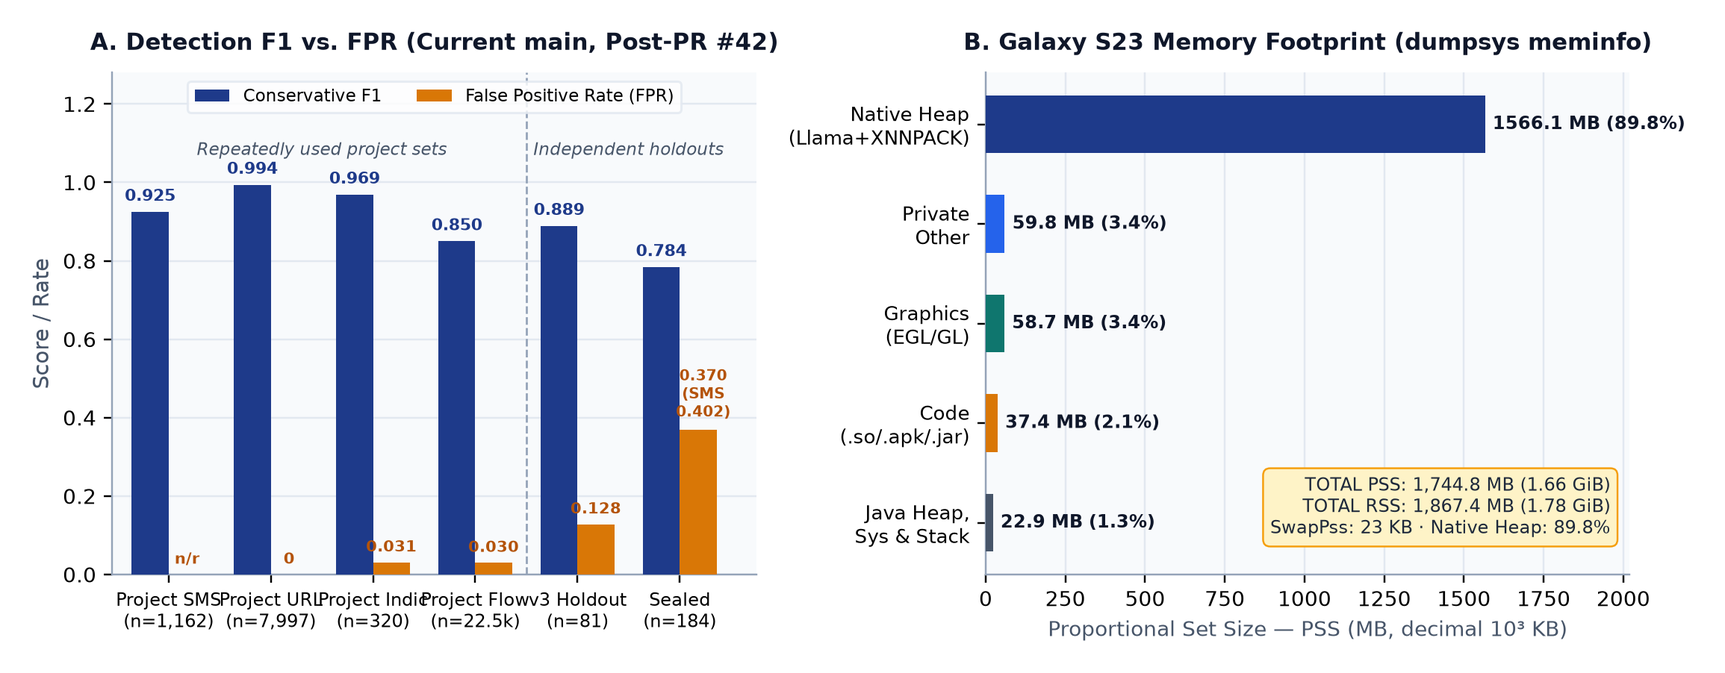
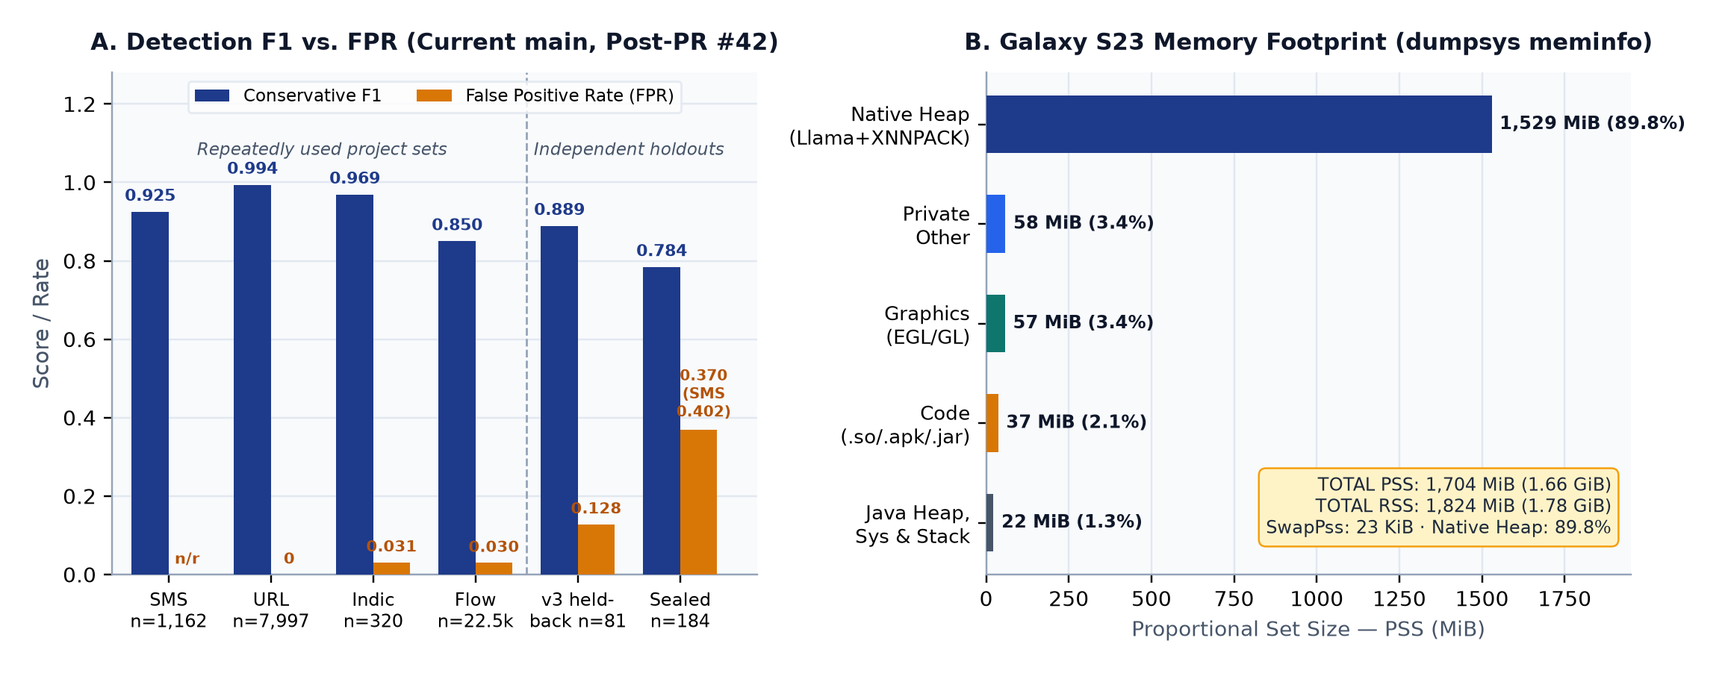
docs(phase1): fix review findings (GPT-6.1 Terra r1)
- dumpsys KB are KiB: S23 PSS/RSS now 1.66/1.78 GiB (1,704/1,824 MiB); chart in MiB
- memory sequence: report first, peak and final app values; no stability claim
- methodology matches llm.py: up to two refusal retries; prompt carries <=320 input chars
- V2 vs N1 speed ratio stated as descriptive; cause not attributed (no KleidiAI A/B)
- deadline: cite the owner's form notes and the older page date
- README: list report build prerequisites
- chart x-labels no longer overlap

diff --git a/docs/phase1/build_report.py b/docs/phase1/build_report.py
@@ -181,12 +181,12 @@ def build_eval_and_mem_chart() -> Path:
     # Panel A: F1 & FPR across project sets, v3 held-back, and sealed holdout
     _style_ax(ax1)
     labels = [
-        "Project SMS\n(n=1,162)",
-        "Project URL\n(n=7,997)",
-        "Project Indic\n(n=320)",
-        "Project Flow\n(n=22.5k)",
-        "v3 Holdout\n(n=81)",
-        "Sealed\n(n=184)",
+        "SMS\nn=1,162",
+        "URL\nn=7,997",
+        "Indic\nn=320",
+        "Flow\nn=22.5k",
+        "v3 held-\nback n=81",
+        "Sealed\nn=184",
     ]
     f1_vals = [0.925, 0.994, 0.969, 0.850, 0.889, 0.784]
     # Post-PR #42 SMS dev-set FPR was not recorded, so it is plotted as "n/r" rather than guessed.
@@ -224,7 +224,9 @@ def build_eval_and_mem_chart() -> Path:
     # Panel B: Galaxy S23 dumpsys meminfo PSS breakdown (KB -> MB)
     _style_ax(ax2)
     cats = ["Native Heap\n(Llama+XNNPACK)", "Private\nOther", "Graphics\n(EGL/GL)", "Code\n(.so/.apk/.jar)", "Java Heap,\nSys & Stack"]
-    mb = [1566.1, 59.8, 58.7, 37.4, 22.9]  # sums to 1,744.8 MB (1,744,842 KB PSS)
+    # dumpsys reports KiB; convert to MiB so the figure matches the GiB totals.
+    kib = [1566056, 59764, 58676, 37420, 11044 + 10566 + 1316]  # App Summary rows, sum 1,744,842 KiB
+    mb = [v / 1024 for v in kib]
     cols = [INDIGO, BLUE, TEAL, AMBER, SLATE]
     y = np.arange(len(cats))[::-1]
     ax2.grid(axis="x", color=GRID, linewidth=0.8, zorder=0)
@@ -232,17 +234,17 @@ def build_eval_and_mem_chart() -> Path:
     bars = ax2.barh(y, mb, height=0.58, color=cols, zorder=3)
     ax2.set_yticks(y)
     ax2.set_yticklabels(cats, fontsize=8.6)
-    ax2.set_xlim(0, 2020)
-    ax2.set_xlabel("Proportional Set Size — PSS (MB, decimal 10³ KB)", fontsize=9.2, color=SLATE)
+    ax2.set_xlim(0, 1950)
+    ax2.set_xlabel("Proportional Set Size — PSS (MiB)", fontsize=9.2, color=SLATE)
     ax2.tick_params(axis="x", labelsize=9)
     for b, v in zip(bars, mb):
-        pct = 100.0 * v / 1744.842
-        ax2.text(v + 24, b.get_y() + b.get_height() / 2, f"{v:.1f} MB ({pct:.1f}%)", va="center", ha="left", fontsize=8.0, color="#0F172A", fontweight="bold")
+        pct = 100.0 * v / (1744842 / 1024)
+        ax2.text(v + 24, b.get_y() + b.get_height() / 2, f"{v:,.0f} MiB ({pct:.1f}%)", va="center", ha="left", fontsize=8.0, color="#0F172A", fontweight="bold")
     ax2.set_title("B. Galaxy S23 Memory Footprint (dumpsys meminfo)", fontsize=10.0, fontweight="bold", color="#0F172A", pad=10)
     ax2.text(
         0.97,
         0.07,
-        "TOTAL PSS: 1,744.8 MB (1.66 GiB)\nTOTAL RSS: 1,867.4 MB (1.78 GiB)\nSwapPss: 23 KB · Native Heap: 89.8%",
+        "TOTAL PSS: 1,704 MiB (1.66 GiB)\nTOTAL RSS: 1,824 MiB (1.78 GiB)\nSwapPss: 23 KiB · Native Heap: 89.8%",
         transform=ax2.transAxes,
         ha="right",
         va="bottom",

diff --git a/docs/phase1/report.md b/docs/phase1/report.md
@@ -11,7 +11,7 @@ Prahari is an offline, on-device cybersecurity triage assistant built for Indian
 
 | Dimension | Verified Phase 1 Measurement (Current `main`, 23 Nov 2026) | Evidence & Qualification |
 |:--|:--|:--|
-| **Physical Arm Smartphone** | **Samsung Galaxy S23 (`SM-S911B`, Snapdragon 8 Gen 2, `arm64-v8a`)**: warm TTFT **510 ms** (499–510 ms), decode **43.4 tok/s**, total **1.20 s/check** (**1.42 s** in Airplane Mode `airplane_mode_on=1`), **1,745 MB PSS** / 1,867 MB RSS | Real handset via Samsung Remote Test Lab (r1 APK; PR #43 r2 UI verified on Android 14 emulator, awaiting S23 re-test) [S9, S11] |
+| **Physical Arm Smartphone** | **Samsung Galaxy S23 (`SM-S911B`, Snapdragon 8 Gen 2, `arm64-v8a`)**: warm TTFT **510 ms** (499–510 ms), decode **43.4 tok/s**, total **1.20 s/check** (**1.42 s** in Airplane Mode `airplane_mode_on=1`), **1.66 GiB PSS** / 1.78 GiB RSS (`dumpsys`) | Real handset via Samsung Remote Test Lab (r1 APK; PR #43 r2 UI verified on Android 14 emulator, awaiting S23 re-test) [S9, S11] |
 | **Arm Linux & KleidiAI** | **Arm Neoverse-V2 (8 vCPU)**: **54.17%** of sampled CPU time inside **Arm KleidiAI** `kai_*` kernels (`perf`: 23.27% `i8mm` prefill, 20.57% `dotprod` decode); **1.73 s/item** at 2T (46.7 tok/s), **0.98 s/item** at 8T (**104.6 tok/s**) | `perf record -F 99 -g` (2,222 samples, 0 lost); `unshare -n` OS network-cut proof passed 6/6 [S10] |
 | **Offline Privacy** | Android app declares **no `INTERNET` permission** (`SecurityException` in 12 ms on S23) + ran in **Airplane Mode**; Linux verified under `unshare -n` (`lo` down; HTTPS/DNS/TCP fail, inference passes) | Model download/staging is one-time before offline use; external dialler/browser open separate apps [S9, S10] |
 | **Detection (Holdouts)** | **Independent India v3 held-back (`n = 81`)**: F1 **0.761 -> 0.889**, recall **0.941**, FPR **0.128**. **Sealed final holdout (`n = 184`)**: combined F1 **0.784**, recall **0.929**, combined FPR **0.37**, **SMS FPR 0.402** | Both holdouts reported transparently; placeholder `.example` links and benign advisories drive sealed FPR (active fix branch) [S8, S11] |
@@ -100,10 +100,10 @@ All headline detection numbers use **conservative metrics** where `uncertain` co
 
 Prahari targets interactive on-device response (`~1–2 s`) and bounded memory on CPU-only Arm SoCs through five concrete engineering choices:
 
-1. **Detector-first cascade (keeping Llama off the classification hot path):** Classical classifiers and mechanism rules execute in **0.42 ms/item** on Arm Linux and **5–17 ms** warm for text checks on Galaxy S23 (183 ms for the lookalike-URL check, 255 ms for the cold first check) [S2, S9]. Llama 3.2 1B runs **only once per item** to verbalise already-verified evidence, eliminating multi-turn LLM prompting and guaranteeing deterministic verdicts even if generation is skipped or fails.
+1. **Detector-first cascade (keeping Llama off the classification hot path):** Classical classifiers and mechanism rules execute in **0.42 ms/item** on Arm Linux and **5–17 ms** warm for text checks on Galaxy S23 (183 ms for the lookalike-URL check, 255 ms for the cold first check) [S2, S9]. Llama 3.2 1B runs once per item to verbalise already-verified evidence (up to two extra generations only if the output is a refusal: a stricter retry prompt, then an evidence-only prompt), and the verdict stays the detector's even if generation is skipped or fails.
 2. **Low-bit weight quantization & model selection (QLoRA INT4 vs. SpinQuant):** Prahari deploys the official ExecuTorch community **Llama 3.2 1B Instruct QLoRA INT4** export (`group-32` symmetric INT4 weights, 8-bit dynamic per-channel activations, ~1.18 GB `.pte` file, SHA-256 `ab7b7ebf…`). On the Oracle Neoverse-N1 baseline, `llama32-1b-qlora` delivered **~83.1 tok/s prefill / 19.9 tok/s decode** compared against `llama32-1b-spinquant` at **~58–63 tok/s prefill / 12–13.5 tok/s decode** under mixed host load, so QLoRA INT4 was retained [S2, S4].
 3. **Arm KleidiAI int8/int4 micro-kernel execution via ExecuTorch XNNPACK:** On Armv8.2+/Armv9 CPUs supporting `asimddp` and `i8mm` (present on both the Snapdragon 8 Gen 2 S23 and Arm Neoverse-V2), ExecuTorch's XNNPACK backend dispatches quantized matrix multiplications directly to **Arm KleidiAI** kernels. Whole-process `perf` profiling on Neoverse-V2 confirmed **54.17%** of all sampled CPU time ran inside named `kai_*` kernels: **23.27%** in `i8mm` prefill matmul (`qai8dxp4x8_qsi4c32p4x8 ... _neon_i8mm`) and **20.57%** in `dotprod` token-decode matmul (`qai8dxp1x8_qsi4c32p4x8 ... _neon_dotprod`), with full symbol names recorded in Section 5.1.2 and `EVIDENCE.md` [S10]. Because no supported runtime switch was found to disable KleidiAI in the installed binary, dispatch is proven without claiming an unmeasured on/off speedup ratio.
-4. **Compact evidence-first prompt and bounded greedy decoding:** Each prompt passes only the compressed evidence phrase and verdict directive (109–128 prompt tokens, median 123, on the six demo items; median 133–139 on the 28-item Oracle suite), with greedy decoding (`temperature = 0`) and a **40-token cap** on Linux (25–39 generated tokens, median 28, on the demo items). Keeping prompts and outputs short cuts both prefill compute and KV-cache traffic without changing model weights. *(Known Android limitation: ExecuTorch Android 1.5.1/1.6 `generate` overload does not forward `maxNewTokens`, so the Android bridge stops the runner after 40 token callbacks [S7].)*
+4. **Compact evidence-first prompt and bounded greedy decoding:** Each prompt passes the verdict directive, a compressed evidence phrase and at most 320 characters of the input with live links defanged (109–128 prompt tokens, median 123, on the six demo items; median 133–139 on the 28-item Oracle suite), with greedy decoding (`temperature = 0`) and a **40-token cap** on Linux (25–39 generated tokens, median 28, on the demo items). Keeping prompts and outputs short cuts both prefill compute and KV-cache traffic without changing model weights. *(Known Android limitation: ExecuTorch Android 1.5.1/1.6 `generate` overload does not forward `maxNewTokens`, so the Android bridge stops the runner after 40 token callbacks [S7].)*
 5. **Portable zero-scikit-learn detector export for Android (`android/tools/export_models.py`):** Chaquopy's Android wheel index tops out at scikit-learn 1.3.2 on Python 3.10 whereas training uses scikit-learn 1.9.1 on Python 3.12. Rather than shipping incompatible pickles or bloating the APK, CI exports all four trained models into compact pure-JSON/NumPy parameters (`portable.py`) and runs parity tests against reference probabilities and labels on every build — eliminating cross-version unpickling and keeping warm Android detector latency at **5–17 ms** for text checks [S7, S9].
 
 ## Hardware Utilization and On-Device Performance
@@ -127,7 +127,7 @@ Tested on 23 November 2026 via Samsung Remote Test Lab (Noida) using the CI `arm
 | Port scan description | DANGEROUS | 5 ms | 650 ms | 38.6 tok/s | 1.49 s | 1,772.6 MB |
 | **KYC scam SMS in Airplane Mode (`airplane_mode_on=1`)** | **DANGEROUS** | **8 ms** | **657 ms** | **39.0 tok/s** | **1.42 s** | **1,772.6 MB** |
 
-**Memory utilization (`adb shell dumpsys meminfo in.prahari.app` after KYC):** **TOTAL PSS 1,744,842 KB (~1.66 GiB / 1.74 GB)**, **TOTAL RSS 1,867,396 KB (~1.78 GiB / 1.87 GB)**, SwapPss 23 KB. Native Heap (ExecuTorch weights + XNNPACK workspace + KV cache) accounts for **1,566,097 KB (89.8% of total PSS)**; Graphics 58,676 KB, Private Other 59,764 KB, Code 37,420 KB, Java Heap 11,044 KB. Across 8 consecutive checks, app-displayed memory rose from 1,692.4 MB to 1,781.2 MB (+88.8 MB), confirming stability on an 8 GB phone while highlighting tight RAM headroom for 4–6 GB devices [S9].
+**Memory utilization (`adb shell dumpsys meminfo in.prahari.app` after KYC):** **TOTAL PSS 1,744,842 KiB (1,704 MiB, 1.66 GiB)**, **TOTAL RSS 1,867,396 KiB (1,824 MiB, 1.78 GiB)**, SwapPss 23 KiB (`dumpsys` reports kilobytes of 1,024 bytes). Native Heap (ExecuTorch weights + XNNPACK workspace + KV cache) accounts for **1,566,097 KiB (1,529 MiB, 89.8% of total PSS)**; Graphics 58,676 KiB, Private Other 59,764 KiB, Code 37,420 KiB, Java Heap 11,044 KiB. App-displayed memory (the app's own MB figure) was 1,692.4 MB after the first check, peaked at 1,781.2 MB after the lookalike-URL check and read 1,772.6 MB after the last check; the warm-2 value was not captured. Eight checks in one session are too few to show long-run stability, and the footprint leaves little headroom on 4–6 GB phones [S9].
 
 ![Physical Galaxy S23 in Airplane Mode (KYC verdict & steps)](img/s23-kyc-airplane-top.png){width=23.5%} ![Physical Galaxy S23 warm arm64-v8a stats (43.4 t/s, 1.20 s)](img/s23-kyc-warm1-stats.png){width=23.5%} ![Physical Galaxy S23 Airplane Mode Llama & stats (1.42 s)](img/s23-kyc-airplane-stats.png){width=23.5%} ![Physical Galaxy S23 OS SecurityException offline proof](img/s23-prove-offline.png){width=23.5%}
 
@@ -144,7 +144,7 @@ Measured on 23 November 2026 on Debian 12 (Linux 6.1.155, `aarch64`, ARM Neovers
 | 4 | 907.7 ± 373.0 | 75.89 ± 0.43 | 378.79 ± 2.70 | 1.470 ± 0.377 | 2.098 ± 0.378 |
 | 8 | **526.8 ± 15.0** | **104.58 ± 1.15** | **676.80 ± 2.29** | **0.980 ± 0.015** | **1.606 ± 0.020** |
 
-At 2 threads, Neoverse-V2 achieved **2.57× prefill** (210.58 vs. ~82 tok/s) and **2.33× decode** (46.69 vs. ~20 tok/s) over our 2-vCPU Oracle Neoverse-N1 baseline, reflecting `i8mm` + KleidiAI execution and higher memory bandwidth. Scaling from 1 to 8 threads increased decode speed **4.07×** (25.7 -> 104.6 tok/s) and prefill **6.19×** (109.3 -> 676.8 tok/s), bringing warm per-item turnaround below 1 second (`0.980 s`). Runner RSS on Neoverse-V2 was **2,373.8 MiB** after model load (2.012 s load time) and **2,392.1 MiB** after generation [S10].
+At 2 threads, Neoverse-V2 achieved **2.57× prefill** (210.58 vs. ~82 tok/s) and **2.33× decode** (46.69 vs. ~20 tok/s) over our 2-vCPU Oracle Neoverse-N1 baseline, measured on different machines with different run conditions, so the ratio is descriptive; no KleidiAI on/off A/B was run, and the share of the gap due to `i8mm`/KleidiAI versus core design and memory bandwidth is not isolated. Scaling from 1 to 8 threads increased decode speed **4.07×** (25.7 -> 104.6 tok/s) and prefill **6.19×** (109.3 -> 676.8 tok/s), bringing warm per-item turnaround below 1 second (`0.980 s`). Runner RSS on Neoverse-V2 was **2,373.8 MiB** after model load (2.012 s load time) and **2,392.1 MiB** after generation [S10].
 
 - **KleidiAI CPU utilization (`perf record -F 99 -g`, 2 threads, ~2,222 samples, 0 lost):** Named `kai_*` leaf functions consumed **54.17%** of total whole-process CPU samples (including Python startup and model loading): **23.27%** in `kai_kernel_matmul_clamp_f32_qai8dxp4x8_qsi4c32p4x8_16x4x32_opt32_neon_i8mm` (prefill), **20.57%** in `kai_kernel_matmul_clamp_f32_qai8dxp1x8_qsi4c32p4x8_1x4x32_neon_dotprod` (decode), and **10.33%** in remaining `kai_*` packing/helper kernels [S10].
 - **OS-level offline proof (`unshare -n`):** In an isolated network namespace with only `lo` (`DOWN`), `curl https://example.com` exited 6, DNS for `huggingface.co` exited 2, and raw TCP to `1.1.1.1:443` raised `OSError: [Errno 101] Network is unreachable`. Inside that same namespace, `bin/explain` exited 0 and generated all 6/6 verdicts and explanations [S10].
@@ -191,7 +191,7 @@ The sealed holdout (84 malicious, 100 benign: 155 SMS-route [68 malicious, 87 be
 
 ![Honest evaluation summary across benchmarks and Galaxy S23 dumpsys memory breakdown](img/fig-eval-summary.png){width=98%}
 
-*Figure 3 — Left: Conservative F1 vs. FPR across repeatedly used project sets and both independent holdouts on current `main` (post-PR #42). Right: Physical Samsung Galaxy S23 `dumpsys meminfo` Proportional Set Size (PSS) breakdown showing Native Heap (Llama 3.2 1B + ExecuTorch XNNPACK) at 89.8% of 1,745 MB total PSS.*
+*Figure 3 — Left: Conservative F1 vs. FPR across repeatedly used project sets and both independent holdouts on current `main` (post-PR #42). Right: Physical Samsung Galaxy S23 `dumpsys meminfo` Proportional Set Size (PSS) breakdown showing Native Heap (Llama 3.2 1B + ExecuTorch XNNPACK) at 89.8% of 1.66 GiB total PSS.*
 
 ### Explanation Quality, Safety Audits, and Live Monitor Verification
 
@@ -212,7 +212,7 @@ The sealed holdout (84 malicious, 100 benign: 155 SMS-route [68 malicious, 87 be
 
 1. **False alarms on hard benign notices:** Sealed-holdout SMS FPR is **0.402** (combined 0.370) and adversarial harmless FPR is 5/13. Until genuine bank/advisory FPR falls below 10–15% on unseen data, automatic background SMS interception (`READ_SMS` / `NotificationListenerService`) remains intentionally disabled.
 2. **APK version split on Galaxy S23:** Physical S23 timing and airplane-mode proofs ran the r1 APK (where bank-debit sentence repetition and a stray URL question occurred). Both defects were fixed in PR #41 and the full r2 UX (Share sheet, `EN / Hindi` toggle, offline TTS, evidence quotes, opt-in history, QR check) merged in PR #43, but the unified r2 APK still needs its physical S23 verification run before recording the final demo video.
-3. **Memory footprint on mid-range phones:** Galaxy S23 measured **1.74 GB PSS / 1.87 GB RSS** with +89 MB growth across 8 checks (`1,692 -> 1,781 MB`), leaving tight headroom on 4–6 GB Android phones.
+3. **Memory footprint on mid-range phones:** Galaxy S23 measured **1.66 GiB PSS / 1.78 GiB RSS** (`dumpsys`); app-displayed memory went from 1,692 MB after the first check to a 1,781 MB peak over 8 checks (1,773 MB at the end), leaving tight headroom on 4–6 GB Android phones. Longer runs are untested.
 4. **Missed hybrid scams & explanation limits:** 2/24 reviewer adversarial scams still bypass rules (typically mixing an official app mention with a secondary WhatsApp/unofficial link). Post-PR #41 explanations have not yet been manually re-audited, and Llama prose remains English-only (with a Hindi UI warning).
 5. **Network scope:** `bin/monitor` is Linux-only (Android 10+ blocks `/proc/net`), samples sockets at 0.5 s intervals rather than capturing raw packets, and is separate from the NSL-KDD feature-replay classifier; `bin/explain` reclassifies flow text with rules rather than explaining the NSL-KDD tree.
 

diff --git a/docs/phase1/LIMITATIONS.md b/docs/phase1/LIMITATIONS.md
@@ -8,7 +8,7 @@
 6. **How does the NSL-KDD flow model relate to `bin/monitor` and `bin/explain`?** They are separate paths. `bin/predict --task flow` runs a trained HistGradientBoosting model + 3 signatures over NSL-KDD's 41 named features as dataset replay (F1 0.850, FPR 3.03% on `KDDTest+`). `bin/monitor`, the web UI, and `bin/explain` classify plain-text network descriptions using flow text rules, so the two paths can disagree and `bin/explain` does not explain the tree model's verdict.
 7. **Why do the two holdout F1/FPR numbers differ (0.889 vs. 0.784)?** On the independent India v3 held-back split (`n = 81`, unseen during PR #42 tuning), conservative F1 improved **0.761 -> 0.889** and FPR dropped **0.213 -> 0.128**. On the older Gemini-authored sealed final holdout (`n = 184`, now scored multiple times), current `main` achieves **0.929 recall** but **0.784 combined F1** and **0.402 SMS-route FPR** (35/87 benign SMS flagged; combined FPR 0.370). That holdout substitutes real domains with placeholder `.example` URLs (about 12 of `gen51`'s 31 false positives contained one, tripping throwaway-TLD rules) and includes hard benign safety advisories quoting scam language. Cutting genuine-notice false alarms without sacrificing recall is our top active priority before final freeze.
 8. **Does Prahari routinely flag legitimate bank or OTP SMS?** Genuine-looking bank debit and OTP alerts without an unofficial contact are surfaced as **SUSPICIOUS (bank alert to confirm)** rather than `DANGEROUS`, guiding the user to verify directly in their bank app. However, until the sealed-holdout false-positive rate is reduced further, routine false alarms on edge-case notices remain a known weakness — which is why background `READ_SMS` interception is intentionally off.
-9. **How fast and memory-heavy is it on a real phone?** On Galaxy S23 (8 GB RAM), warm text checks take **1.20–1.50 s** (1.42 s in Airplane Mode; the lookalike-URL check took 3.53 s), but `dumpsys meminfo` recorded **1,745 MB PSS / 1,867 MB RSS** (89.8% Native Heap), drifting +89 MB across 8 checks (`1,692 -> 1,781 MB`). Shrinking KV-cache context length and freeing per-check native buffers is needed for comfortable headroom on 4–6 GB phones.
+9. **How fast and memory-heavy is it on a real phone?** On Galaxy S23 (8 GB RAM), warm text checks take **1.20–1.50 s** (1.42 s in Airplane Mode; the lookalike-URL check took 3.53 s), but `dumpsys meminfo` recorded **1.66 GiB PSS / 1.78 GiB RSS** (89.8% Native Heap). App-displayed memory went from 1,692 MB to a 1,781 MB peak across 8 checks (1,773 MB at the end); longer sessions are untested. Shrinking KV-cache context length and freeing per-check native buffers is needed for comfortable headroom on 4–6 GB phones.
 10. **What does Arm KleidiAI actually contribute?** Whole-process `perf record -F 99 -g` profiling on Arm Neoverse-V2 (2 threads, 2,222 samples, 0 lost) proved **54.17% of sampled CPU time** executes directly inside named `kai_*` kernels (`23.27%` `i8mm` prefill matmul + `20.57%` `dotprod` decode matmul + `10.33%` packing/helpers) invoked through ExecuTorch's XNNPACK delegate. No runtime KleidiAI disable flag was found in the installed ExecuTorch build, so dispatch is proven without claiming an unmeasured on/off speedup ratio.
 11. **Are Llama explanations always reliable?** No. An initial blind audit of 20 sealed-holdout explanations found 5 correct, 8 weak, and 7 wrong (4 false input claims). PR #41 fixed repeated openings, false absence assertions on `NO RISK` items, and stray generated questions (lifting automated consistency v2 from 0.929 to 0.964 and explanation score from 0.929 to 0.932), and vetted static steps are always displayed first — but post-PR #41 outputs still await a fresh blind manual re-audit, and Llama prose remains English-only.
 12. **Can a prompt injection or subtle scam bypass the assistant?** Prompt-injection rules, data-framing prompts, and detector-authoritative verdicts mitigate override attempts (injection holdout FPR 0.154, recall 0.938), but they are heuristic guards, not formal proofs. In our 24-scam adversarial suite, 2 scams still slip through (typically mixing an official app reference with an unofficial WhatsApp/link). `NO RISK FOUND` always adds *"still verify."*

diff --git a/docs/phase1/demo-video.md b/docs/phase1/demo-video.md
@@ -76,7 +76,7 @@ candidates/BEST/bin/monitor --seconds 6
 | **0:28–1:00** | 32 s | **Live KYC Scam SMS on Galaxy S23 (Airplane Mode `✈` still visible).** Tap **KYC scam SMS** sample → tap **Check**. Show **real-time** ~1.2–1.4 s completion (no cut!). Result appears: red **`DANGEROUS / खतरनाक`**, numbered bilingual steps (1. Don't open link, 2. Check bank app, 3. Report on Sanchar Saathi Chakshu), Chakshu & 1930 buttons. Scroll down to show evidence chips, **Explained on this phone by Llama 3.2** card with fallibility warning, and expand **On-device stats** (`6–8 ms` detector, `~510–657 ms` first token, `~39–43 tok/s`, `Total 1.2–1.4 s`, `ExecuTorch · XNNPACK`, `CPU ABI: arm64-v8a`). *(If using r2 APK: briefly tap `हिंदी` toggle and `Listen / सुनें`!)* | *"Now let's test a fake SBI KYC suspension SMS — completely offline. A lightweight local detector classifies the scam mechanism in under 10 milliseconds, and Llama 3.2 1B generates a plain-language explanation right on the Arm64 CPU in about 1.4 seconds at around 40 tokens per second. Safe steps come first in English and Hindi, with one-tap Sanchar Saathi Chakshu and 1930 helpline actions, followed by quoted evidence and the AI summary."* |
 | **1:00–1:18** | 18 s | **Legitimate Bank Alert & Safe Notice on Galaxy S23 (Airplane Mode `✈`).** Tap **Check another** → select **Bank debit alert** (or genuine bill reminder) → tap **Check**. Show amber **`SUSPICIOUS / संदिग्ध`** ("Looks like a bank debit or OTP alert — verify in your bank app, don't use links in the message") — or slate-blue **`NO RISK FOUND — still verify`** on the bill reminder. Show completion in ~1.5 s. | *"Real bank and OTP alerts share words with scams, so Prahari avoids blindly screaming 'scam' on everyday notices. A genuine-looking bank debit alert is shown as a cautious verification check, directing the user straight to their official bank app."* |
 | **1:18–1:44** | 26 s | **Arm Linux Terminal (`aarch64`) + KleidiAI & Live Monitor overlay.** Cut to crisp terminal: `uname -m` (`aarch64`), run `candidates/BEST/bin/app --demo` showing SMS, URL, flow, and prompt-injection verdicts + Llama stats; then brief terminal clip of `bin/monitor --seconds 6` catching `scan_demo.py --open` as a port scan without root. Small bottom-right metric card: **Arm Neoverse-V2:** `54.17% CPU in KleidiAI i8mm/dotprod kernels (perf)`, `1.73 s/item @ 2T`, `104.6 tok/s @ 8T`, `unshare -n offline verified`. | *"The same pipeline runs natively on Arm Linux. Here `bin/app --demo` triages SMS, lookalike URLs, network events, and prompt injection locally, while `bin/monitor` watches live Linux TCP connections without root to flag a port scan. Profiling on Arm Neoverse-V2 confirmed over 54 percent of CPU samples run directly inside Arm KleidiAI int8 kernels, scaling past 100 tokens per second across 8 threads."* |
-| **1:44–2:00** | 16 s | **Honest Limits & Closing Card.** Clean slide showing: (1) S23 & Neoverse-V2 key numbers table, (2) Honest caveats (advisory-only, false alarms on hard benign look-alikes being reduced, ~1.7 GB phone PSS), (3) **Built with Llama (Llama 3.2 Community License)** + Public GitHub link `github.com/rabesss/arm-bharat-ai-soc`. | *"Prahari is an advisory prototype — verdicts can still err on hard look-alike messages, and cutting false alarms and RAM footprint further is our Phase 2 focus. Full code, benchmarks, and technical report are in the public GitHub repository. Built with Llama. Thank you."* |
+| **1:44–2:00** | 16 s | **Honest Limits & Closing Card.** Clean slide showing: (1) S23 & Neoverse-V2 key numbers table, (2) Honest caveats (advisory-only, false alarms on hard benign look-alikes being reduced, ~1.66 GiB phone PSS), (3) **Built with Llama (Llama 3.2 Community License)** + Public GitHub link `github.com/rabesss/arm-bharat-ai-soc`. | *"Prahari is an advisory prototype — verdicts can still err on hard look-alike messages, and cutting false alarms and RAM footprint further is our Phase 2 focus. Full code, benchmarks, and technical report are in the public GitHub repository. Built with Llama. Thank you."* |
 
 ---
 

diff --git a/docs/phase1/EVIDENCE.md b/docs/phase1/EVIDENCE.md
@@ -30,7 +30,7 @@ Measured **23 November 2026** (Asia/Kolkata) on a physical **Samsung Galaxy S23 
 | Claim | Status | Evidence and qualification |
 |:--|:--|:--|
 | 8 timed on-device checks across SMS, URL, flow & Airplane Mode | Measured on physical Arm64 handset | App-displayed stats (visible text in `docs/phase1/evidence/galaxy-s23/ui-stats-text.txt`; screenshots in `docs/phase1/img/s23-*.png`): KYC cold 255 ms det / 664 ms TTFT / 42.6 tok/s / 2.00 s / 1,692.4 MB; KYC warm 1: **6 ms / 510 ms / 43.4 tok/s / 1.20 s / 1,708.0 MB**; KYC warm 2: 6 ms / 499 ms (card not expanded); KYC warm 3: 6 ms / 508 ms / 42.9 tok/s / 1.21 s / 1,724.8 MB; Bank debit: 17 ms / 615 ms / 39.8 tok/s / 1.50 s / 1,737.5 MB; Lookalike URL: 183 ms / 594 ms / 39.1 tok/s / 3.53 s / 1,781.2 MB; Port scan: 5 ms / 650 ms / 38.6 tok/s / 1.49 s / 1,772.6 MB; **KYC in Airplane Mode (`airplane_mode_on=1`): 8 ms / 657 ms / 39.0 tok/s / 1.42 s / 1,772.6 MB**. |
-| S23 memory (`dumpsys meminfo in.prahari.app`) | Measured on physical handset | Snapshot after KYC: **TOTAL PSS 1,744,842 KB (~1.66 GiB / 1.74 GB)**, **TOTAL RSS 1,867,396 KB (~1.78 GiB / 1.87 GB)**, Native Heap PSS 1,566,097 KB (89.8%), Graphics 58,676 KB, Private Other 59,764 KB, Code 37,420 KB, Java Heap 11,044 KB, System 10,566 KB, Stack 1,316 KB, SwapPss 23 KB. |
+| S23 memory (`dumpsys meminfo in.prahari.app`) | Measured on physical handset | Snapshot after KYC: **TOTAL PSS 1,744,842 KiB (1,704 MiB, 1.66 GiB)**, **TOTAL RSS 1,867,396 KiB (1,824 MiB, 1.78 GiB)**, Native Heap PSS 1,566,097 KiB (89.8%), Graphics 58,676 KiB, Private Other 59,764 KiB, Code 37,420 KiB, Java Heap 11,044 KiB, System 10,566 KiB, Stack 1,316 KiB, SwapPss 23 KiB (`dumpsys` kilobytes are 1,024 bytes). |
 | S23 offline proof & screenshots | Measured on physical handset | `docs/phase1/img/s23-kyc-airplane-top.png`, `s23-kyc-airplane-stats.png`, `s23-kyc-warm1-stats.png`, `s23-prove-offline.png` (`HTTPS GET example.com` -> `Blocked` in 12 ms with `SecurityException: Permission denied (missing INTERNET permission?)`), `s23-bank-top.png`. |
 | Known S23 r1 defects | Observed & addressed | On the r1 APK run on S23, bank debit repeated its opening sentence and lookalike URL appended `"Can I help you with something else?"` — both addressed in PR #41 on `main`, awaiting re-verification on S23 with the unified r2 APK. |
 

diff --git a/README.md b/README.md
@@ -12,7 +12,7 @@ Prahari has been measured end to end on three Arm targets (all running the exact
 
 | Target hardware | Runtime / setup | Warm TTFT | Decode speed | End-to-end / item | Memory | Offline proof |
 |:--|:--|--:|--:|--:|--:|:--|
-| **Samsung Galaxy S23 (`SM-S911B`)** (Snapdragon 8 Gen 2, `arm64-v8a`, Android 14, Samsung RTL) | ExecuTorch Android 1.5.1 XNNPACK, Chaquopy portable detectors | **510 ms** (499–510 ms warm; 657 ms airplane) | **43.4 tok/s** warm (39.0 tok/s airplane) | **1.20 s** warm (**1.42 s** airplane mode) | **1,745 MB PSS** / 1,867 MB RSS (`dumpsys meminfo`) | Airplane mode (`airplane_mode_on=1`) + `SecurityException` (no `INTERNET` permission) |
+| **Samsung Galaxy S23 (`SM-S911B`)** (Snapdragon 8 Gen 2, `arm64-v8a`, Android 14, Samsung RTL) | ExecuTorch Android 1.5.1 XNNPACK, Chaquopy portable detectors | **510 ms** (499–510 ms warm; 657 ms airplane) | **43.4 tok/s** warm (39.0 tok/s airplane) | **1.20 s** warm (**1.42 s** airplane mode) | **1.66 GiB PSS** / 1.78 GiB RSS (`dumpsys meminfo`) | Airplane mode (`airplane_mode_on=1`) + `SecurityException` (no `INTERNET` permission) |
 | **Arm Neoverse-V2 Linux** (8 online vCPUs, Debian 12, `i8mm` + `asimddp`) | ExecuTorch 1.6.0 XNNPACK, Python 3.12 (`perf` profiled) | **922 ms** (2T) / **527 ms** (8T) | **46.7 tok/s** (2T) / **104.6 tok/s** (8T) | **1.73 s** (2T) / **0.98 s** (8T) | **2,392 MiB** runner RSS | OS network namespace cut (`unshare -n`: HTTPS/DNS/TCP fail; 6/6 inference succeeds) |
 | **Oracle Arm Neoverse-N1 VM** (2 vCPUs, Ubuntu 24.04, eval baseline) | ExecuTorch 1.6.0 XNNPACK, Python 3.12 | — | **19.9 tok/s** | **3.84 s** (eval range 3.8–4.8 s) | **2.05 GB** cgroup `memory.peak` | Evaluation import-time network guard |
 
@@ -98,6 +98,8 @@ candidates/BEST/bin/monitor --seconds 6                # add --explain for local
 ## Build the final report PDF
 
 The PDF at [`docs/phase1/report.pdf`](docs/phase1/report.pdf) is built reproducibly (charts + XeLaTeX layout, verified `< 10 MB`) via:
+
+Needs `matplotlib` and `numpy` (`pip install matplotlib`), `pandoc`, XeLaTeX (TeX Live with `fontspec`, `titlesec`, `fancyhdr`, `lastpage`, `mdframed`, `enumitem`), the fonts IBM Plex Sans, JetBrains Mono and Noto Sans Devanagari, and `pdfinfo` (poppler) for the page count.
 
 ```sh
 python3 docs/phase1/build_report.py

diff --git a/docs/phase1/SUBMISSION.md b/docs/phase1/SUBMISSION.md
@@ -1,6 +1,6 @@
 # Phase 1 Submission Checklist
 
-- **Submission deadline:** **Wednesday, 25 November 2026, 11:59 PM IST** (ONE submission only — **the owner alone** flips repo visibility and submits the form).
+- **Submission deadline:** **Wednesday, 25 November 2026, 11:59 PM IST**, per the owner's Phase 1 form notes (the older challenge-page snapshot in `docs/challenge-brief.md` says 23 November; trust the live form). ONE submission only — **the owner alone** flips repo visibility and submits the form.
 - **Required form deliverables:**
   1. **PUBLIC GitHub repository URL** containing code, documentation, and final report (`https://github.com/rabesss/arm-bharat-ai-soc`).
   2. **PUBLIC 2-minute demo video** (1080p, 16:9, MP4) showcasing real-time on-device operation on target Arm hardware (see [demo-video.md](demo-video.md)).
